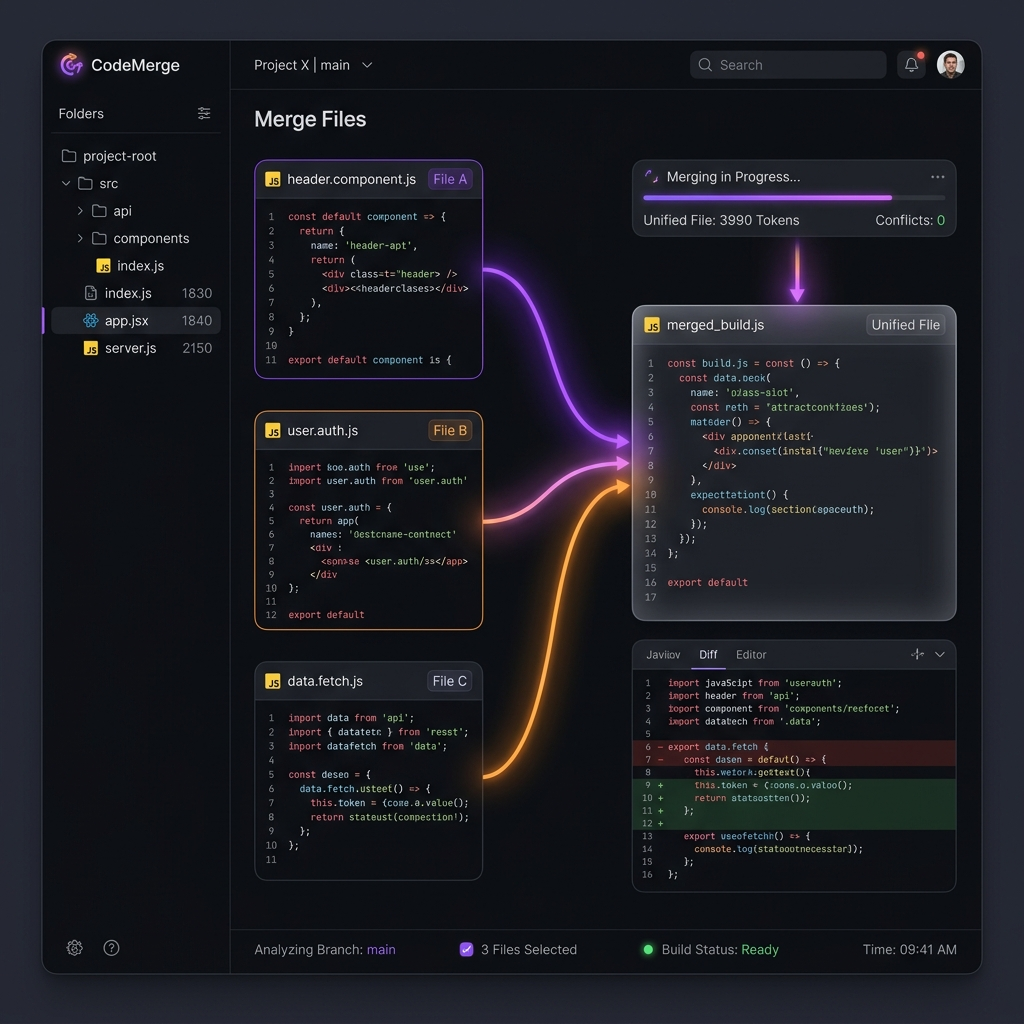
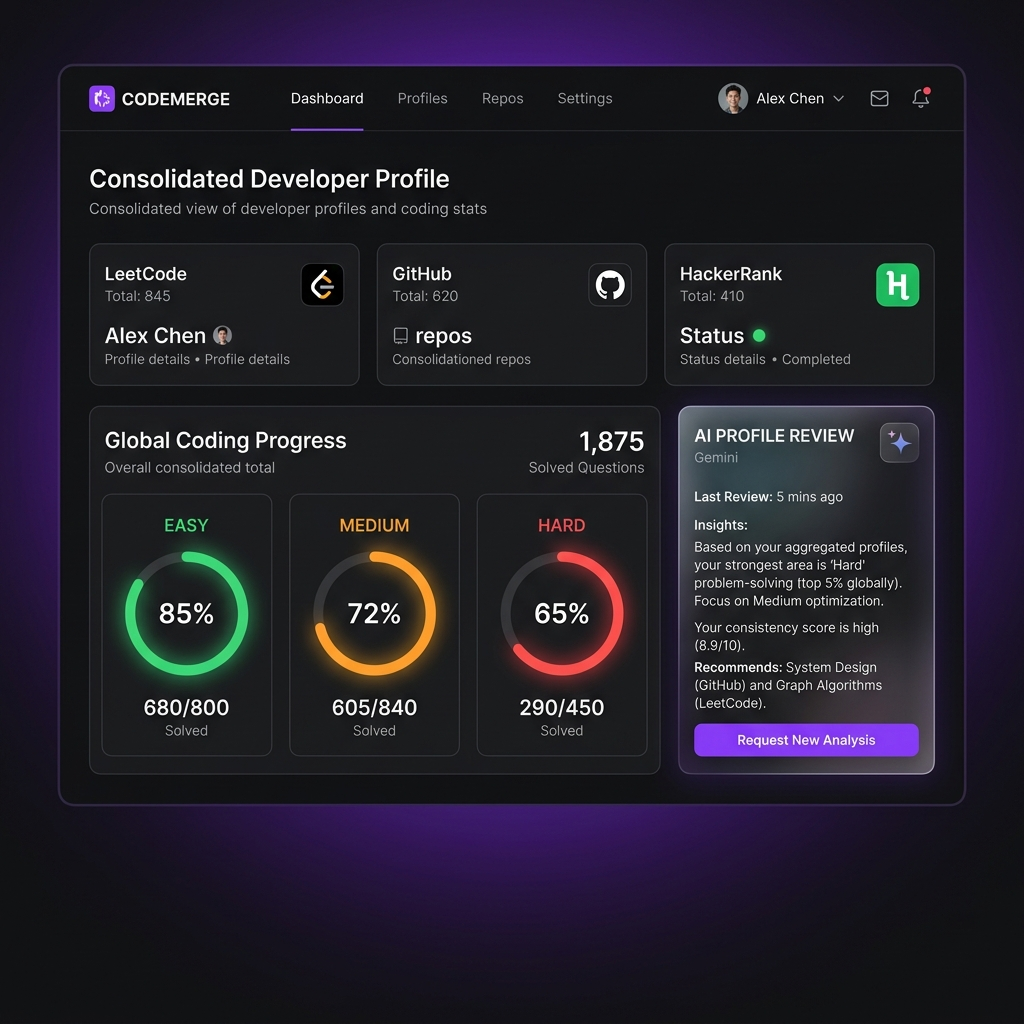
feat: update CodeMerge descriptions and preview image for coding profile aggregator

diff --git a/Portfolio_Website.html b/Portfolio_Website.html
@@ -385,8 +385,8 @@
                             <div class="timeline-item reveal">
                                 <div class="timeline-badge">2026</div>
                                 <h4 class="timeline-title">Creator & Lead Developer</h4>
-                                <span class="timeline-org">CodeMerge (AI Context Aggregator)</span>
-                                <p class="timeline-detail">Developed a high-performance codebase consolidation CLI tool that packages repository directories into single context documents. Streamlined file aggregation with custom .gitignore filtering and precise token count estimations.</p>
+                                <span class="timeline-org">CodeMerge (AI Profile Reviewer)</span>
+                                <p class="timeline-detail">Designed and built a unified developer dashboard aggregating metrics from LeetCode, HackerRank, and GitHub. Integrated the Gemini API to evaluate combined problem-solving metrics (Easy/Medium/Hard) and render live coding profile analyses.</p>
                                 <span class="dot-node"></span>
                             </div>
                         </div>
@@ -442,7 +442,7 @@
                     <!-- CodeMerge Project Card -->
                     <div class="project-card reveal">
                         <div class="project-img-wrapper">
-                            <img src="codemerge_preview.png" alt="CodeMerge Developer Tool Preview">
+                            <img src="codemerge_preview.png" alt="CodeMerge Developer Dashboard Preview">
                             <div class="project-overlay">
                                 <div class="project-links">
                                     <a href="https://github.com/amanmishra2005/CodeMerge" target="_blank"
@@ -457,17 +457,17 @@
                             </div>
                         </div>
                         <div class="project-info">
-                            <h3>CodeMerge — AI Code Context Aggregator</h3>
-                            <p>An intelligent codebase consolidation utility that aggregates multi-file source directories 
-                                into single Markdown documents. Respects `.gitignore` rules, generates visual directory trees, 
-                                and calculates precise token counts to optimize developer prompt context for LLMs.
+                            <h3>CodeMerge — Unified Developer Profile & AI Reviewer</h3>
+                            <p>A central dashboard aggregating coding platform metrics from LeetCode, HackerRank, and GitHub.
+                                Automatically calculates combined solved statistics (Easy, Medium, and Hard counts)
+                                and leverages Google Gemini to deliver real-time, comprehensive profile evaluations and recommendations.
                             </p>
                             <div class="project-tags">
-                                <span>TypeScript</span>
+                                <span>React</span>
                                 <span>Node.js</span>
-                                <span>Git API</span>
-                                <span>Token Estimation</span>
-                                <span>CLI</span>
+                                <span>Express</span>
+                                <span>Gemini API</span>
+                                <span>Profile Aggregator</span>
                             </div>
                         </div>
                     </div>